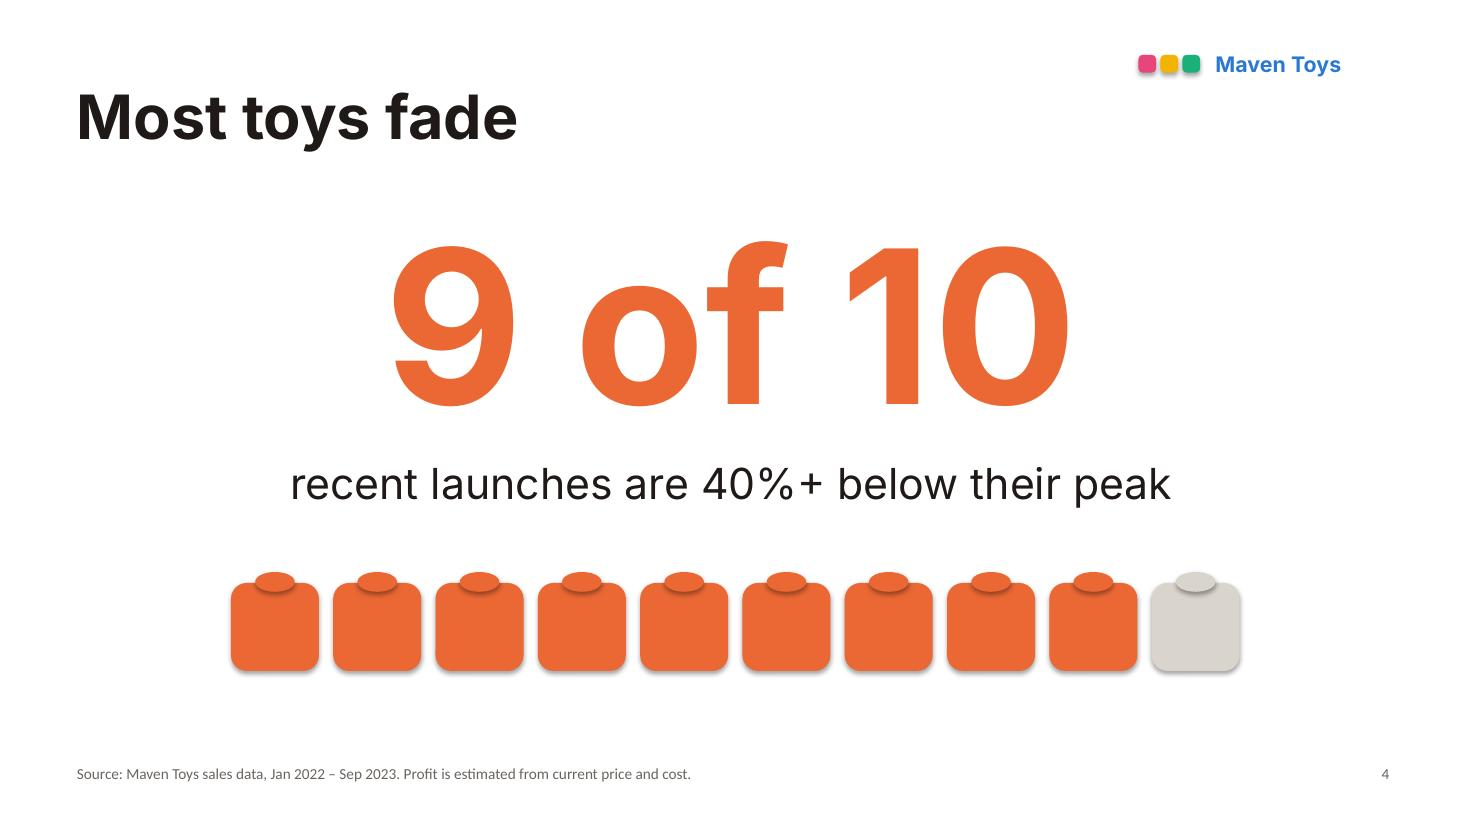
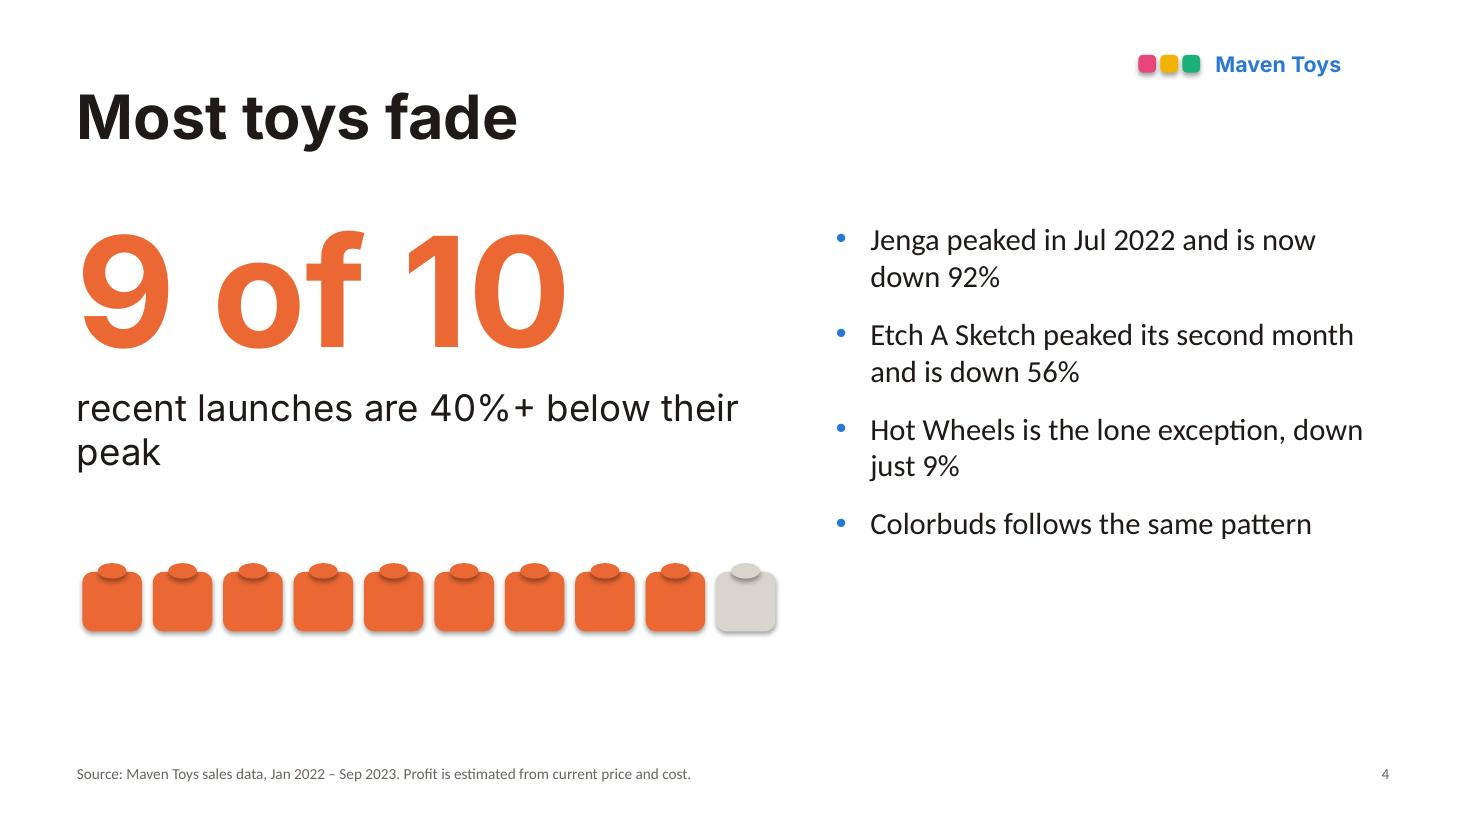
Deck: add short explanatory bullets to slides 2-6 (claims asserted against data)
Claude-Session: https://claude.ai/code/session_01J6v5JYXB5XucuZ66TGAjVJ

Changed region(s): [[0.0307, 0.2727, 0.9202, 0.6667], [0.0307, 0.6667, 0.8589, 0.8182]]

diff --git a/scripts/build_deck.py b/scripts/build_deck.py
@@ -55,11 +55,24 @@ first_sale = x.groupby("Product_Name").Date.min()
 launched = [n for n in first_sale.index if first_sale[n] > pd.Timestamp("2022-01-31") and n != "Playfoam"]
 faded = [n for n in launched if units_m.loc[n].iloc[-1] <= 0.6 * units_m.loc[n].max()]
 
+q3_22_k, q3_23_k = round(qp.loc["Colorbuds", "2022Q3"] / 1000), round(qp.loc["Colorbuds", "2023Q3"] / 1000)
+pf_rank = int((qp["2023Q3"] > qp.loc["Playfoam", "2023Q3"]).sum()) + 1
+cbs = x[(x.Product_Name == "Colorbuds") & (x.Date.dt.month <= 9)]
+g = cbs.groupby([cbs.Store_ID, cbs.Date.dt.year]).Units.sum().unstack(fill_value=0)
+stores_down = int((g[2023] < g[2022]).sum())
+cb_unit_profit = float(prod.loc[prod.Product_Name == "Colorbuds", "unit_profit"].iloc[0])
+gap_k = round((cb_first - cb_last) * cb_unit_profit / 1000)
+peak_drop = lambda n: round((1 - units_m.loc[n].iloc[-1] / units_m.loc[n].max()) * 100)
+jenga_drop, etch_drop, hw_drop = peak_drop("Jenga"), peak_drop("Etch A Sketch"), peak_drop("Hot Wheels 5-Pack")
+etch_peak = str(units_m.loc["Etch A Sketch"].idxmax())
+
 # independent check against the numbers verified earlier with pandas
 assert (cb_first, cb_last, cb_drop) == (8110, 2594, 68), (cb_first, cb_last, cb_drop)
 assert (share_22, share_23) == (28, 13), (share_22, share_23)
 assert (pf_aug, pf_sep, pf_margin, pf_month_profit_k, pf_zero) == (1311, 2847, 64, 20, 13)
 assert (len(faded), len(launched)) == (9, 10), (len(faded), len(launched))
+assert (q3_22_k, q3_23_k, pf_rank, stores_down, gap_k) == (142, 74, 5, 48, 44), (q3_22_k, q3_23_k, pf_rank, stores_down, gap_k)
+assert (jenga_drop, etch_drop, hw_drop, etch_peak) == (92, 56, 9, "2022-12"), (jenga_drop, etch_drop, hw_drop, etch_peak)
 print("numbers verified:", dict(cb=(cb_first, cb_last, cb_drop), share=(share_22, share_23),
       playfoam=(pf_aug, pf_sep, pf_margin, pf_month_profit_k, pf_zero), faded=(len(faded), len(launched))))
 
@@ -157,6 +170,29 @@ def blocks(slide, x0, y0, rows, w=1.3, h=0.8, gap=0.06):
                 shape(slide, MSO_SHAPE.OVAL, bx + sx, y - 0.1, 0.38, 0.2, c, f"Stud r{r}c{i}")
 
 
+def bullets(slide, items, x, y, w, h, size=18, color=INK, space=8, name="Bullets"):
+    tb = slide.shapes.add_textbox(Inches(x), Inches(y), Inches(w), Inches(h))
+    tb.name = name
+    tf = tb.text_frame
+    tf.word_wrap = True
+    tf.margin_left = tf.margin_right = tf.margin_top = tf.margin_bottom = 0
+    for i, s in enumerate(items):
+        p = tf.paragraphs[0] if i == 0 else tf.add_paragraph()
+        p.space_after = Pt(space)
+        pPr = p._p.get_or_add_pPr()
+        pPr.set("marL", "285750")
+        pPr.set("indent", "-285750")
+        buClr = etree.SubElement(pPr, qn("a:buClr"))
+        etree.SubElement(buClr, qn("a:srgbClr")).set("val", BLUE)
+        etree.SubElement(pPr, qn("a:buFont")).set("typeface", "Arial")
+        etree.SubElement(pPr, qn("a:buChar")).set("char", "•")
+        r = p.add_run()
+        r.text = s
+        r.font.size, r.font.name = Pt(size), BODY
+        r.font.color.rgb = rgb(color)
+    return tb
+
+
 def style_axis_text(axis, size=14, color=MUTED):
     axis.tick_labels.font.size = Pt(size)
     axis.tick_labels.font.name = BODY
@@ -181,24 +217,28 @@ for i, (fill, big, bigcolor, label, cap, bx) in enumerate([
     (T_PINK, f"{share_22}% → {share_23}%", PINK, "Colorbuds' share of quarterly profit", "Q3 2022 to Q3 2023", 0.7),
     (T_MINT, f"${pf_month_profit_k}K", MINT, "Playfoam profit per month", "at its September pace", 6.95),
 ]):
-    shape(s2, MSO_SHAPE.ROUNDED_RECTANGLE, bx, 1.95, 5.68, 4.5, fill, f"Card {i+1}", 0.06)
-    text(s2, big, bx + 0.4, 2.55, 4.9, 1.7, 60, bigcolor, True, HEAD, anchor=MSO_ANCHOR.MIDDLE, name=f"Big number {i+1}")
-    text(s2, label, bx + 0.4, 4.5, 4.9, 0.5, 24, INK, True, name=f"Label {i+1}")
-    text(s2, cap, bx + 0.4, 5.1, 4.9, 0.4, 16, MUTED, name=f"Caption {i+1}")
+    shape(s2, MSO_SHAPE.ROUNDED_RECTANGLE, bx, 1.8, 5.68, 2.85, fill, f"Card {i+1}", 0.07)
+    text(s2, big, bx + 0.4, 2.0, 4.9, 1.15, 54, bigcolor, True, HEAD, anchor=MSO_ANCHOR.MIDDLE, name=f"Big number {i+1}")
+    text(s2, label, bx + 0.4, 3.35, 4.9, 0.45, 22, INK, True, name=f"Label {i+1}")
+    text(s2, cap, bx + 0.4, 3.9, 4.9, 0.35, 14, MUTED, name=f"Caption {i+1}")
+bullets(s2, [f"Colorbuds is still our #1 profit toy, but its share has more than halved",
+             f"Playfoam launched in mid-August and is already a top-{pf_rank} profit toy",
+             f"Playfoam's September pace is nearly half of the ${gap_k}K a month Colorbuds has lost"],
+        0.7, 4.95, 11.9, 1.8, 20, name="Key points")
 notes(s2, f"Colorbuds earned about {share_22}% of Q3 2022 profit and {share_23}% of Q3 2023 profit; it is still our #1 profit toy, "
           f"so it is fading, not dead. Playfoam launched in mid-August 2023; at its September pace ({pf_sep:,} units x "
-          f"${pf_unit_profit:.0f} profit per unit) it earns about ${pf_month_profit_k}K a month. Profit is estimated from current "
-          "price and cost, not accounting figures.")
+          f"${pf_unit_profit:.0f} profit per unit) it earns about ${pf_month_profit_k}K a month. Colorbuds' monthly profit is about ${gap_k}K lower than in "
+          "Jan 2022 ((8,110 - 2,594) units x $8). Profit is estimated from current price and cost, not accounting figures.")
 
-# ================================================================= slide 3: the fall (native line chart)
+# ================================================================= slide 3: the fall (native line chart + bullets)
 s3 = content_slide(f"Colorbuds sales are down {cb_drop}%", 3)
 months = [str(p) for p in cb.index]
 show_at = {0, 6, 12, 18}
-mlabels = [pd.Period(m).strftime("%b\u00a0%y") if i in show_at else " " * (i + 1) for i, m in enumerate(months)]
+mlabels = [pd.Period(m).strftime("%b %y") if i in show_at else " " * (i + 1) for i, m in enumerate(months)]
 cd = CategoryChartData()
 cd.categories = mlabels
 cd.add_series("Colorbuds units per month", [int(v) for v in cb.values])
-gf = s3.shapes.add_chart(XL_CHART_TYPE.LINE, Inches(0.7), Inches(2.05), Inches(11.9), Inches(4.7), cd)
+gf = s3.shapes.add_chart(XL_CHART_TYPE.LINE, Inches(0.7), Inches(2.05), Inches(7.9), Inches(4.7), cd)
 gf.name = "Colorbuds monthly units"
 ch = gf.chart
 ch.has_legend = False
@@ -218,7 +258,6 @@ ser = ch.plots[0].series[0]
 ser.smooth = False
 ser.format.line.color.rgb = rgb(PINK)
 ser.format.line.width = Pt(5)
-ser.marker.style = None
 from pptx.enum.chart import XL_MARKER_STYLE
 ser.marker.style = XL_MARKER_STYLE.NONE
 for idx, lbl, when, pos in ((0, f"{cb_first:,}", "Jan 2022", XL_LABEL_POSITION.ABOVE),
@@ -241,34 +280,41 @@ for idx, lbl, when, pos in ((0, f"{cb_first:,}", "Jan 2022", XL_LABEL_POSITION.A
     r2.text = when
     r2.font.size, r2.font.name = Pt(14), BODY
     r2.font.color.rgb = rgb(MUTED)
-text(s3, "units per month", 0.7, 1.55, 4, 0.3, 14, MUTED, name="Chart caption")
+text(s3, "units per month", 0.7, 1.7, 4, 0.3, 14, MUTED, name="Chart caption")
+bullets(s3, [f"Down in {stores_down} of 50 stores, in every store type",
+             "Every store still carries it, so this is weaker demand, not empty shelves",
+             f"Quarterly profit has roughly halved: ${q3_22_k}K to ${q3_23_k}K"],
+        9.0, 2.3, 3.7, 4.2, 20, space=14, name="Key points")
 notes(s3, f"Monthly Colorbuds units fell from {cb_first:,} (Jan 2022) to {cb_last:,} (Sep 2023), down {cb_drop}%. "
-          "The drop is steady and broad: 48 of 50 stores are down, in every store type. All 50 stores carry it and none is at zero stock, "
+          f"The drop is steady and broad: {stores_down} of 50 stores are down (Jan-Sep 2023 vs Jan-Sep 2022), in every store type. All 50 stores carry it and none is at zero stock, "
           "so this looks like a demand problem, not a stock problem. Some of the drop is seasonal (company-wide revenue in Sep is about 26% "
           "below its peak month) but not most of it. The data cannot say WHY demand fell; no price history, promotions or competitor data.")
 
 # ================================================================= slide 4: most toys fade
 s4 = content_slide("Most toys fade", 4)
-text(s4, f"{len(faded)} of {len(launched)}", 0.7, 1.7, 11.9, 2.4, 140, ORANGE, True, HEAD, align=PP_ALIGN.CENTER,
-     anchor=MSO_ANCHOR.MIDDLE, name="Big number")
-text(s4, "recent launches are 40%+ below their peak", 0.7, 4.15, 11.9, 0.7, 28, INK, False, HEAD, align=PP_ALIGN.CENTER,
-     name="Caption")
+text(s4, f"{len(faded)} of {len(launched)}", 0.7, 1.75, 6.4, 1.7, 100, ORANGE, True, HEAD, anchor=MSO_ANCHOR.MIDDLE, name="Big number")
+text(s4, "recent launches are 40%+ below their peak", 0.7, 3.5, 6.4, 0.9, 24, INK, False, HEAD, name="Caption")
 for i in range(len(launched)):
-    bx = 2.1 + i * 0.93
+    bx = 0.75 + i * 0.64
     c = ORANGE if i < len(faded) else "D9D4CC"
-    shape(s4, MSO_SHAPE.ROUNDED_RECTANGLE, bx, 5.3, 0.8, 0.8, c, f"Toy block {i+1}", 0.18)
-    shape(s4, MSO_SHAPE.OVAL, bx + 0.22, 5.2, 0.36, 0.18, c, f"Toy stud {i+1}")
+    shape(s4, MSO_SHAPE.ROUNDED_RECTANGLE, bx, 5.2, 0.54, 0.54, c, f"Toy block {i+1}", 0.18)
+    shape(s4, MSO_SHAPE.OVAL, bx + 0.14, 5.12, 0.26, 0.14, c, f"Toy stud {i+1}")
+bullets(s4, [f"Jenga peaked in Jul 2022 and is now down {jenga_drop}%",
+             f"Etch A Sketch peaked its second month and is down {etch_drop}%",
+             f"Hot Wheels is the lone exception, down just {hw_drop}%",
+             "Colorbuds follows the same pattern"],
+        7.6, 2.0, 5.0, 4.5, 20, space=14, name="Key points")
 notes(s4, "This is the likely explanation, not a proven cause. Of the 10 toys that started selling during this data (excluding Playfoam, "
           "which is too new), 9 now sell at least 40% less per month than in their peak month. Jenga -92%, Supersoaker -66%, "
           "Mr. Potatohead -65%, PlayDoh Playset -64%, Etch A Sketch -56%, Plush Pony -56%, Foam Disk Launcher -54%, Magic Sand -41%, "
           "Gamer Headphones -41%; Hot Wheels is the exception at -9%. Caveats: part of each drop is seasonal, and 'launch' means first sale in this data.")
 
-# ================================================================= slide 5: Playfoam (native bar chart)
+# ================================================================= slide 5: Playfoam (native bar chart + bullets)
 s5 = content_slide("Playfoam is taking off", 5)
 cd = CategoryChartData()
 cd.categories = ["Aug (from the 17th)", "Sep"]
 cd.add_series("Playfoam units", [pf_aug, pf_sep])
-gf = s5.shapes.add_chart(XL_CHART_TYPE.COLUMN_CLUSTERED, Inches(0.7), Inches(2.05), Inches(7.3), Inches(4.65), cd)
+gf = s5.shapes.add_chart(XL_CHART_TYPE.COLUMN_CLUSTERED, Inches(0.7), Inches(2.05), Inches(6.4), Inches(4.65), cd)
 gf.name = "Playfoam monthly units"
 ch = gf.chart
 ch.has_legend = False
@@ -294,27 +340,30 @@ ser.format.fill.solid()
 ser.format.fill.fore_color.rgb = rgb(MINT)
 text(s5, "units sold per month", 0.7, 1.7, 5, 0.3, 14, MUTED, name="Chart caption")
 for i, (fill, big, col, small, by, dy) in enumerate([
-    (T_MINT, f"{pf_margin}% margin", MINT, f"${pf_unit_profit:.0f} profit on every unit", 2.2, 0.85),
-    (T_ORANGE, f"{pf_zero} stores are out of stock", ORANGE, "about $5K a month left on the table", 4.45, 1.3),
+    (T_MINT, f"{pf_margin}% margin", MINT, f"${pf_unit_profit:.0f} profit on every unit", 1.9, 0.9),
+    (T_ORANGE, f"{pf_zero} stores out of stock", ORANGE, "about $5K a month left on the table", 3.55, 0.9),
 ]):
-    shape(s5, MSO_SHAPE.ROUNDED_RECTANGLE, 8.5, by, 4.1, 1.95, fill, f"Badge {i+1}", 0.08)
-    text(s5, big, 8.8, by + 0.2, 3.5, 1.0, 26, col, True, HEAD, name=f"Badge title {i+1}")
-    text(s5, small, 8.8, by + dy, 3.5, 0.4, 16, INK, name=f"Badge note {i+1}")
+    shape(s5, MSO_SHAPE.ROUNDED_RECTANGLE, 7.6, by, 5.0, 1.4, fill, f"Badge {i+1}", 0.1)
+    text(s5, big, 7.9, by + 0.2, 4.5, 0.6, 26, col, True, HEAD, anchor=MSO_ANCHOR.MIDDLE, name=f"Badge title {i+1}")
+    text(s5, small, 7.9, by + dy, 4.5, 0.4, 16, INK, name=f"Badge note {i+1}")
+bullets(s5, [f"Launched Aug 17 and already a top-{pf_rank} profit toy",
+             "New toys often cool off, so the window to act is short"],
+        7.6, 5.2, 5.0, 1.5, 18, space=10, name="Key points")
 notes(s5, f"Playfoam launched Aug 17, 2023 and sold {pf_aug + pf_sep:,} units in about six weeks ({pf_aug:,} in August from the 17th, "
           f"{pf_sep:,} in September). It earns ${pf_unit_profit:.0f} per unit at a {pf_margin}% margin, about ${pf_month_profit_k}K a month "
           f"at the September pace. It is at zero stock in {pf_zero} stores; each store sells about 57 units a month, so empty shelves cost "
-          "roughly $5K a month. Be honest: hot now, likely to cool (see the previous slide). Only six weeks of data; the $20K is a "
-          "run-rate, not a forecast.")
+          "roughly $5K a month. It was the #5 profit toy in Q3 2023 despite only ~6 weeks on sale. Be honest: hot now, likely to cool (see the previous slide). "
+          "Only six weeks of data; the $20K is a run-rate, not a forecast.")
 
 # ================================================================= slide 6: what we do
 s6 = content_slide("Back newer, higher-margin toys", 6)
-steps = [("1", BLUE, T_BLUE, "Keep Playfoam in stock"),
-         ("2", ORANGE, T_ORANGE, "Test one Colorbuds fix"),
-         ("3", MINT, T_MINT, "Review in 8 weeks")]
-for i, (num, col, tint, label) in enumerate(steps):
+steps = [("1", BLUE, T_BLUE, "Keep Playfoam in stock", ["Refill the 13 empty stores", "Check weekly; worth about $5K a month"]),
+         ("2", ORANGE, T_ORANGE, "Test one Colorbuds fix", ["10 test stores vs 10 similar ones", "Up to about $11K a month if it works"]),
+         ("3", MINT, T_MINT, "Review in 8 weeks", ["Scale what works, stop what doesn't", "Pick the next higher-margin toy"])]
+for i, (num, col, tint, label, pts) in enumerate(steps):
     cx = 0.7 + i * 4.1
-    shape(s6, MSO_SHAPE.ROUNDED_RECTANGLE, cx, 2.3, 3.7, 3.7, tint, f"Card {num}", 0.07)
-    badge = shape(s6, MSO_SHAPE.OVAL, cx + 0.4, 2.65, 1.0, 1.0, col, f"Number badge {num}")
+    shape(s6, MSO_SHAPE.ROUNDED_RECTANGLE, cx, 1.95, 3.7, 4.55, tint, f"Card {num}", 0.06)
+    badge = shape(s6, MSO_SHAPE.OVAL, cx + 0.4, 2.3, 0.9, 0.9, col, f"Number badge {num}")
     tf = badge.text_frame
     tf.margin_left = tf.margin_right = tf.margin_top = tf.margin_bottom = 0
     tf.vertical_anchor = MSO_ANCHOR.MIDDLE
@@ -322,9 +371,10 @@ for i, (num, col, tint, label) in enumerate(steps):
     p.alignment = PP_ALIGN.CENTER
     r = p.add_run()
     r.text = num
-    r.font.size, r.font.bold, r.font.name = Pt(36), True, HEAD
+    r.font.size, r.font.bold, r.font.name = Pt(32), True, HEAD
     r.font.color.rgb = rgb("FFFFFF")
-    text(s6, label, cx + 0.4, 3.95, 2.9, 1.8, 30, INK, True, HEAD, name=f"Step {num}")
+    text(s6, label, cx + 0.4, 3.45, 2.95, 1.2, 26, INK, True, HEAD, name=f"Step {num}")
+    bullets(s6, pts, cx + 0.4, 4.8, 2.95, 1.6, 16, space=8, name=f"Step {num} details")
 notes(s6, "1) Keep Playfoam in stock: refill the 13 stores at zero and keep every store above about two weeks of sales (roughly 26 units a store); "
           "check weekly. Worth about $5K a month now. "
           "2) Test one cheap Colorbuds fix: refresh, bundle with Gamer Headphones, or better shelf placement in about 10 stores against 10 similar "
